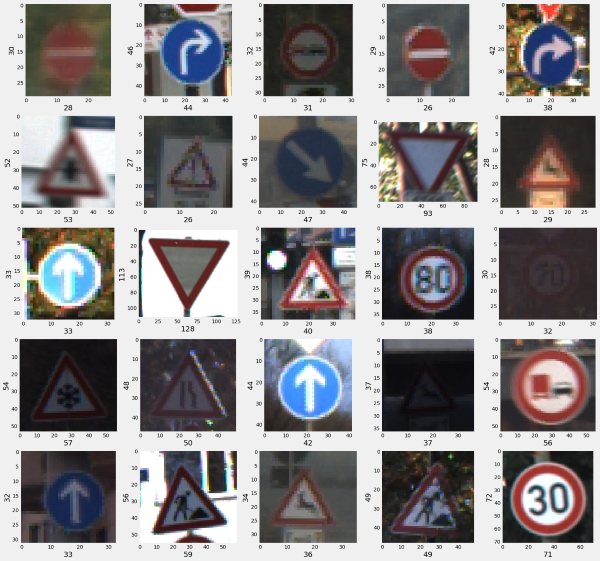
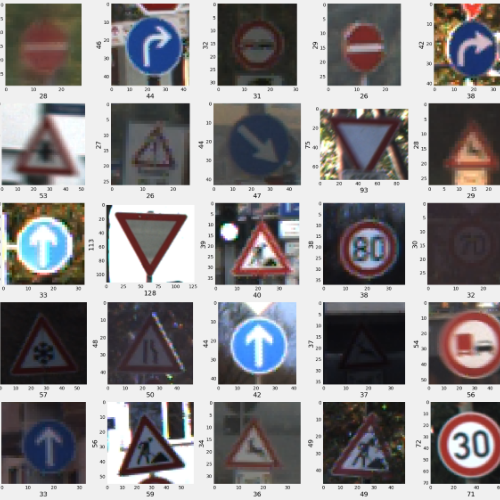
Updated MATT

diff --git a/_projects/Multi-Agent Translation Team (MATT).md b/_projects/Multi-Agent Translation Team (MATT).md
@@ -2,7 +2,7 @@
 layout: page
 title: Multi-Agent Translation Team (MATT) - Published
 description: Enhancing Low-Resource Language Translation through Multi-Agent Translation Team (MATT)
-img: /assets/img/MATT/Architecture.png
+img: /assets/img/MATT/Architecture_logo.png
 importance: 1
 category: work
 ---
